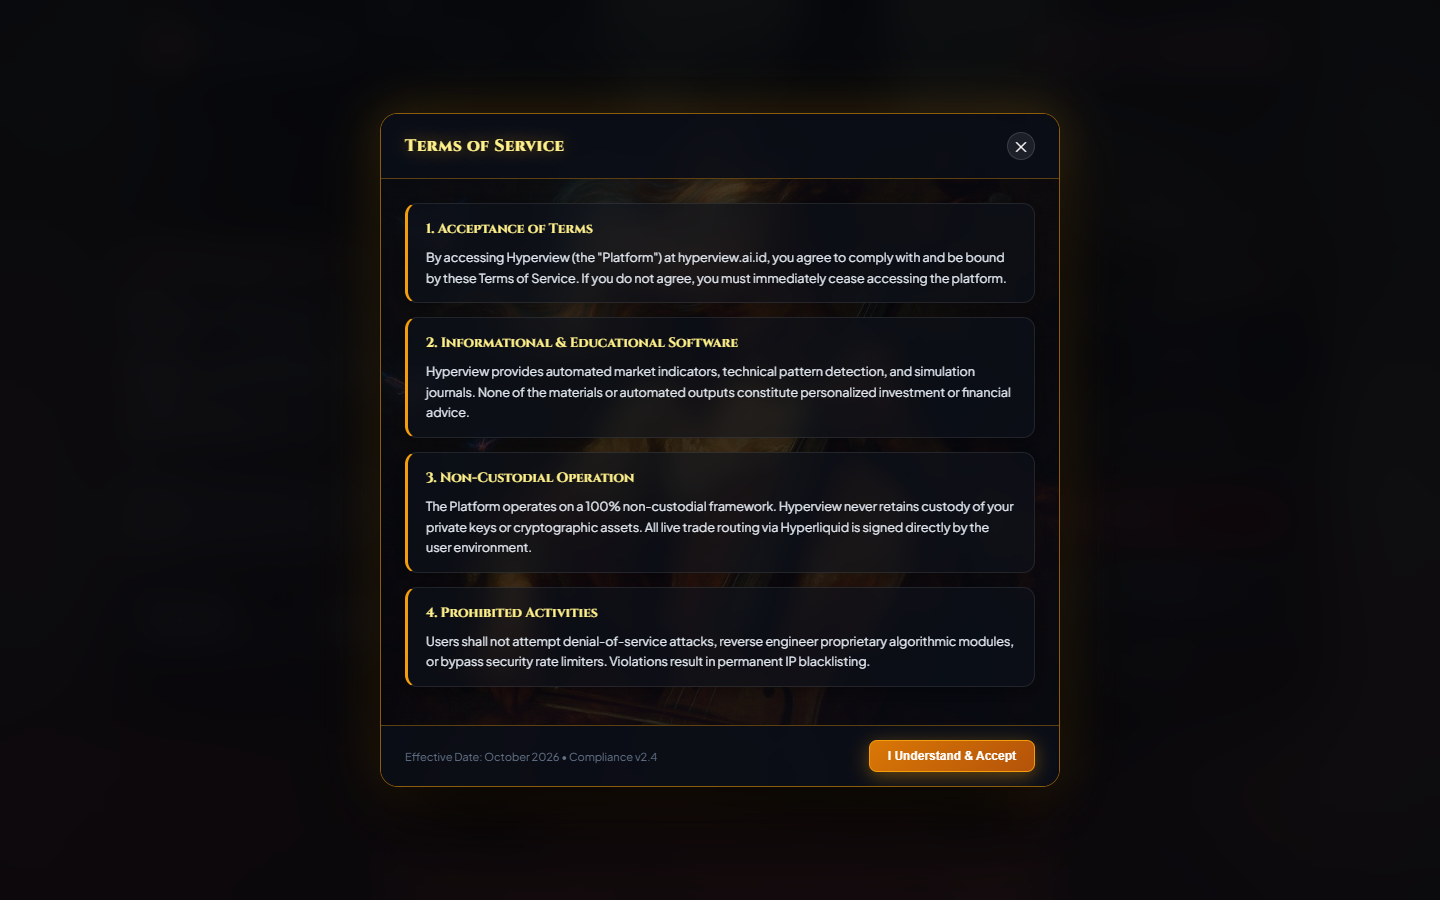
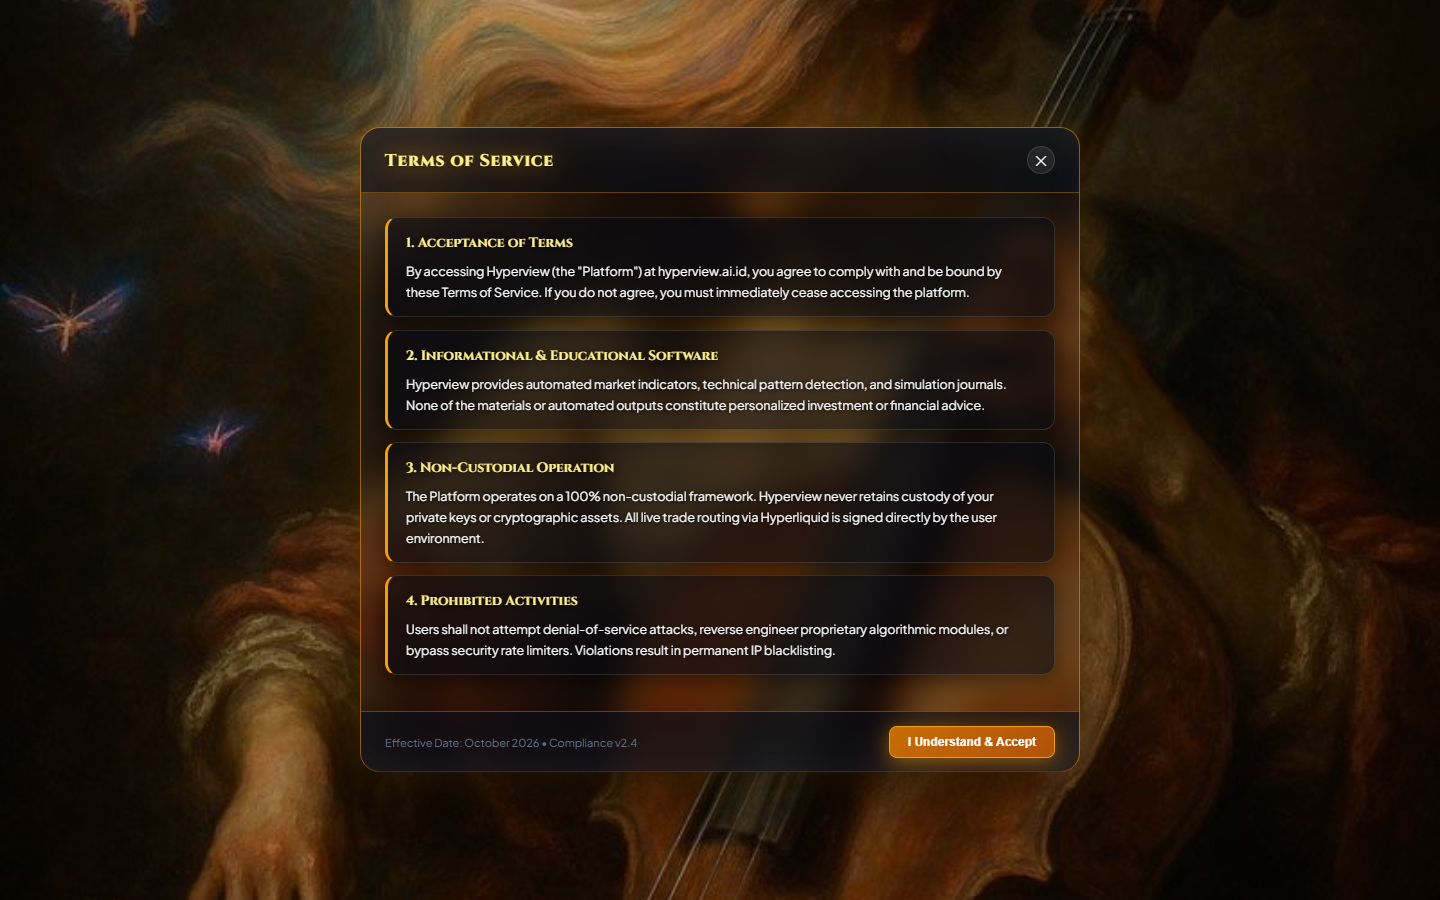
feat(terms): Expand Baroque artwork to full-screen background with translucent frosted glass Terms modal

diff --git a/src/views/loginPage.js b/src/views/loginPage.js
@@ -495,84 +495,80 @@ function getLoginPageHtml(config = {}) {
     }
     @keyframes modalScaleIn { from { opacity: 0; transform: scale(0.96); } to { opacity: 1; transform: scale(1); } }
 
-    /* TERMS ARTWORK THEME (CLASSIC BAROQUE CELLIST & IRIDESCENT LIGHT AURA) */
-    .modal-dialog-box.terms-art-bg {
-      background: #080b12;
-      border: 1px solid rgba(245, 158, 11, 0.55);
-      box-shadow: 0 32px 90px rgba(0, 0, 0, 0.95), 0 0 50px rgba(245, 158, 11, 0.28), inset 0 0 40px rgba(0, 0, 0, 0.6);
+    /* TERMS FULLSCREEN ARTWORK & FROSTED SEE-THROUGH GLASS MODAL */
+    .modal-backdrop-layer.terms-fullscreen-art {
+      background: #04060a url('/public/terms_bg_art.png') center center / cover no-repeat !important;
+      backdrop-filter: none !important;
+      -webkit-backdrop-filter: none !important;
+      transition: all 0.3s cubic-bezier(0.16, 1, 0.3, 1);
     }
-    .modal-dialog-box.terms-art-bg::before {
+    .modal-backdrop-layer.terms-fullscreen-art::before {
       content: '';
       position: absolute;
       inset: 0;
-      background-image: url('/public/terms_bg_art.png');
-      background-position: center right;
-      background-size: cover;
-      background-repeat: no-repeat;
-      opacity: 0.62;
-      filter: saturate(1.22) contrast(1.1);
+      background: radial-gradient(circle at center, rgba(0, 0, 0, 0.08) 0%, rgba(0, 0, 0, 0.28) 70%, rgba(0, 0, 0, 0.6) 100%);
       pointer-events: none;
       z-index: 0;
     }
-    .modal-dialog-box.terms-art-bg::after {
-      content: '';
-      position: absolute;
-      inset: 0;
-      background: linear-gradient(135deg, rgba(8, 11, 18, 0.82) 0%, rgba(8, 11, 18, 0.5) 45%, rgba(8, 11, 18, 0.85) 100%);
-      pointer-events: none;
-      z-index: 0;
-    }
-    .modal-dialog-box.terms-art-bg > * {
+    .modal-dialog-box.terms-art-glass {
       position: relative;
       z-index: 1;
+      background: rgba(8, 12, 22, 0.32) !important;
+      backdrop-filter: blur(14px) saturate(1.3) !important;
+      -webkit-backdrop-filter: blur(14px) saturate(1.3) !important;
+      border: 1px solid rgba(245, 158, 11, 0.55) !important;
+      border-radius: 20px !important;
+      box-shadow: 0 28px 80px rgba(0, 0, 0, 0.75), 0 0 50px rgba(245, 158, 11, 0.3), inset 0 0 35px rgba(255, 255, 255, 0.08) !important;
+      max-width: 720px !important;
     }
-    .modal-dialog-box.terms-art-bg .modal-header-strip {
-      background: rgba(10, 14, 23, 0.82);
-      backdrop-filter: blur(12px);
-      -webkit-backdrop-filter: blur(12px);
-      border-bottom: 1px solid rgba(245, 158, 11, 0.35);
+    .modal-dialog-box.terms-art-glass .modal-header-strip {
+      background: rgba(8, 12, 22, 0.42) !important;
+      backdrop-filter: blur(12px) !important;
+      -webkit-backdrop-filter: blur(12px) !important;
+      border-bottom: 1px solid rgba(245, 158, 11, 0.35) !important;
     }
-    .modal-dialog-box.terms-art-bg .modal-headline-text {
-      color: #fef08a;
-      text-shadow: 0 0 16px rgba(245, 158, 11, 0.5);
-      letter-spacing: 0.5px;
+    .modal-dialog-box.terms-art-glass .modal-headline-text {
+      color: #fef08a !important;
+      text-shadow: 0 0 20px rgba(245, 158, 11, 0.75), 0 2px 6px rgba(0, 0, 0, 0.85) !important;
+      font-size: 17px !important;
+      letter-spacing: 0.8px !important;
     }
-    .modal-dialog-box.terms-art-bg .modal-scrollable-body {
-      background: transparent;
+    .modal-dialog-box.terms-art-glass .modal-scrollable-body {
+      background: transparent !important;
     }
-    .modal-dialog-box.terms-art-bg .modal-footer-strip {
-      background: rgba(10, 14, 23, 0.88);
-      backdrop-filter: blur(12px);
-      -webkit-backdrop-filter: blur(12px);
-      border-top: 1px solid rgba(245, 158, 11, 0.35);
+    .modal-dialog-box.terms-art-glass .modal-footer-strip {
+      background: rgba(8, 12, 22, 0.48) !important;
+      backdrop-filter: blur(12px) !important;
+      -webkit-backdrop-filter: blur(12px) !important;
+      border-top: 1px solid rgba(245, 158, 11, 0.35) !important;
     }
-    .modal-dialog-box.terms-art-bg .btn-modal-accept {
-      background: linear-gradient(135deg, #d97706, #b45309);
-      border-color: #f59e0b;
-      color: #fff;
-      font-weight: 700;
-      box-shadow: 0 4px 18px rgba(245, 158, 11, 0.4);
+    .modal-dialog-box.terms-art-glass .btn-modal-accept {
+      background: linear-gradient(135deg, rgba(217, 119, 6, 0.9), rgba(180, 83, 9, 0.98)) !important;
+      border: 1px solid #f59e0b !important;
+      box-shadow: 0 4px 20px rgba(245, 158, 11, 0.5) !important;
+      color: #fff !important;
+      font-weight: 700 !important;
     }
-    .modal-dialog-box.terms-art-bg .btn-modal-accept:hover {
-      background: linear-gradient(135deg, #f59e0b, #d97706);
-      box-shadow: 0 6px 22px rgba(245, 158, 11, 0.6);
+    .modal-dialog-box.terms-art-glass .btn-modal-accept:hover {
+      background: linear-gradient(135deg, rgba(245, 158, 11, 0.98), rgba(217, 119, 6, 1)) !important;
+      box-shadow: 0 6px 26px rgba(245, 158, 11, 0.75) !important;
       transform: translateY(-1px);
     }
     .terms-section-card {
-      background: rgba(12, 16, 26, 0.66);
-      backdrop-filter: blur(10px);
-      -webkit-backdrop-filter: blur(10px);
-      border: 1px solid rgba(255, 255, 255, 0.09);
+      background: rgba(6, 9, 18, 0.38);
+      backdrop-filter: blur(8px);
+      -webkit-backdrop-filter: blur(8px);
+      border: 1px solid rgba(255, 255, 255, 0.12);
       border-left: 3px solid #f59e0b;
       border-radius: 12px;
       padding: 14px 18px;
-      margin-bottom: 14px;
-      box-shadow: 0 4px 20px rgba(0, 0, 0, 0.4);
+      margin-bottom: 12px;
+      box-shadow: 0 6px 20px rgba(0, 0, 0, 0.4);
       transition: all 0.2s ease;
     }
     .terms-section-card:hover {
-      background: rgba(12, 16, 26, 0.78);
-      border-color: rgba(245, 158, 11, 0.35);
+      background: rgba(6, 9, 18, 0.55);
+      border-color: rgba(245, 158, 11, 0.45);
       transform: translateY(-1px);
     }
     .terms-section-card h3 {
@@ -580,12 +576,14 @@ function getLoginPageHtml(config = {}) {
       color: #fef08a !important;
       font-size: 13.5px !important;
       font-weight: 700 !important;
+      text-shadow: 0 2px 8px rgba(0, 0, 0, 0.95) !important;
     }
     .terms-section-card p {
       margin: 0 !important;
-      color: #e2e8f0 !important;
+      color: #f8fafc !important;
       font-size: 12.5px !important;
       line-height: 1.65;
+      text-shadow: 0 1px 4px rgba(0, 0, 0, 0.95) !important;
     }
 
     .modal-header-strip {
@@ -1548,11 +1546,14 @@ function getLoginPageHtml(config = {}) {
       document.getElementById('legal-modal-body').innerHTML = data.body;
       const footMeta = document.getElementById('legal-modal-foot-meta');
       const acceptBtn = document.querySelector('.btn-modal-accept');
+      const backdrop = document.getElementById('legal-modal-backdrop');
       const dialogBox = document.querySelector('#legal-modal-backdrop .modal-dialog-box');
       if (key === 'terms') {
-        dialogBox?.classList.add('terms-art-bg');
+        backdrop?.classList.add('terms-fullscreen-art');
+        dialogBox?.classList.add('terms-art-glass');
       } else {
-        dialogBox?.classList.remove('terms-art-bg');
+        backdrop?.classList.remove('terms-fullscreen-art');
+        dialogBox?.classList.remove('terms-art-glass');
       }
       if (key === 'contact') {
         if (footMeta) footMeta.innerHTML = '<span style="color:#10b981;">● Typical response within 2 hours</span>';
@@ -1565,9 +1566,11 @@ function getLoginPageHtml(config = {}) {
     }
 
     function closeLegalModal() {
-      document.getElementById('legal-modal-backdrop').style.display = 'none';
+      const backdrop = document.getElementById('legal-modal-backdrop');
       const dialogBox = document.querySelector('#legal-modal-backdrop .modal-dialog-box');
-      dialogBox?.classList.remove('terms-art-bg');
+      backdrop?.classList.remove('terms-fullscreen-art');
+      dialogBox?.classList.remove('terms-art-glass');
+      if (backdrop) backdrop.style.display = 'none';
     }
 
     document.getElementById('legal-modal-backdrop')?.addEventListener('click', (e) => {
